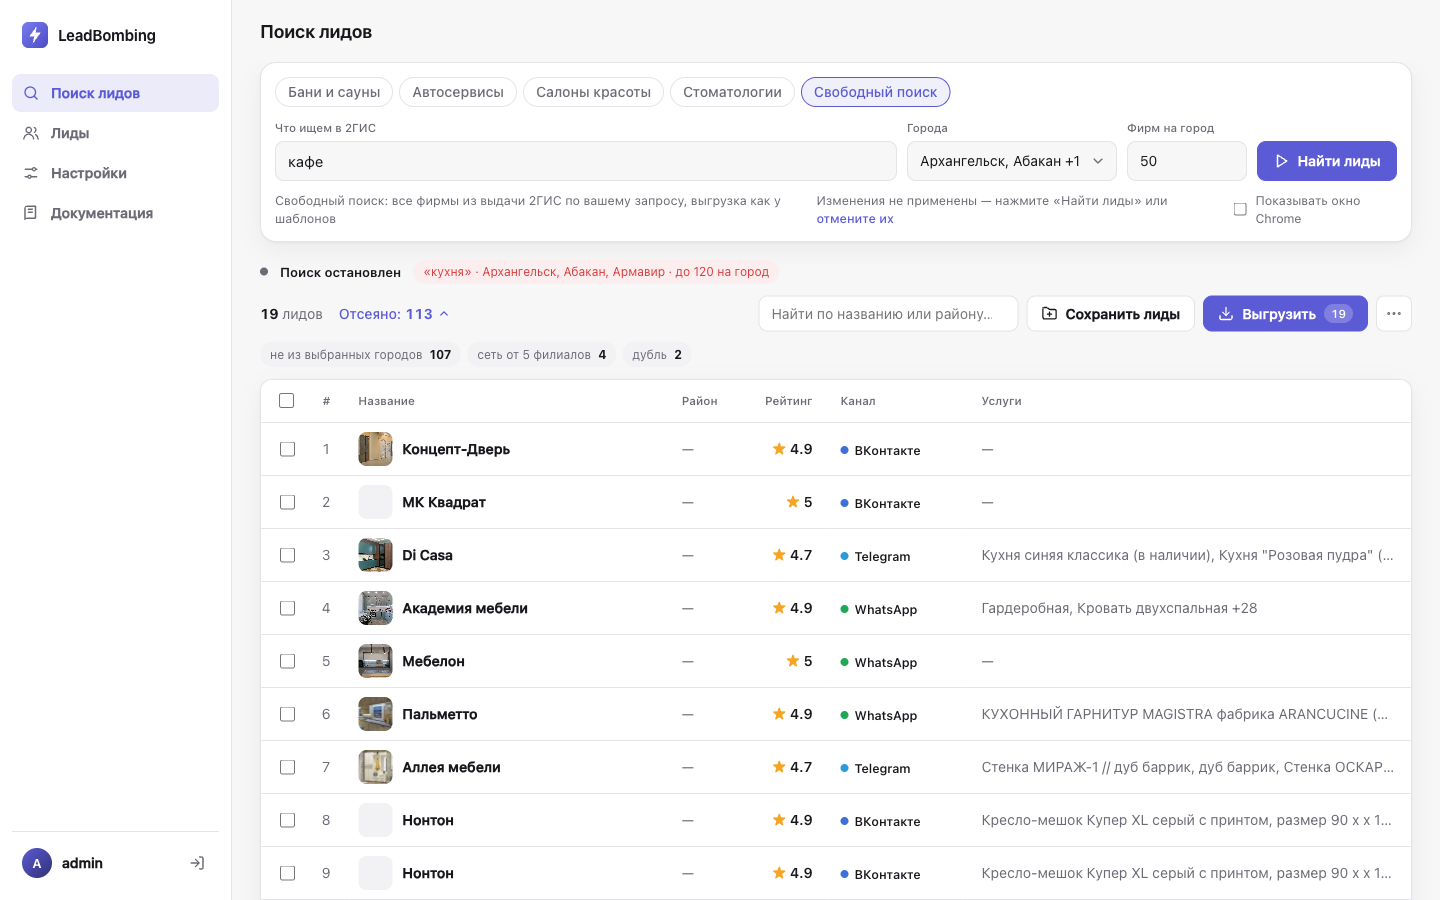
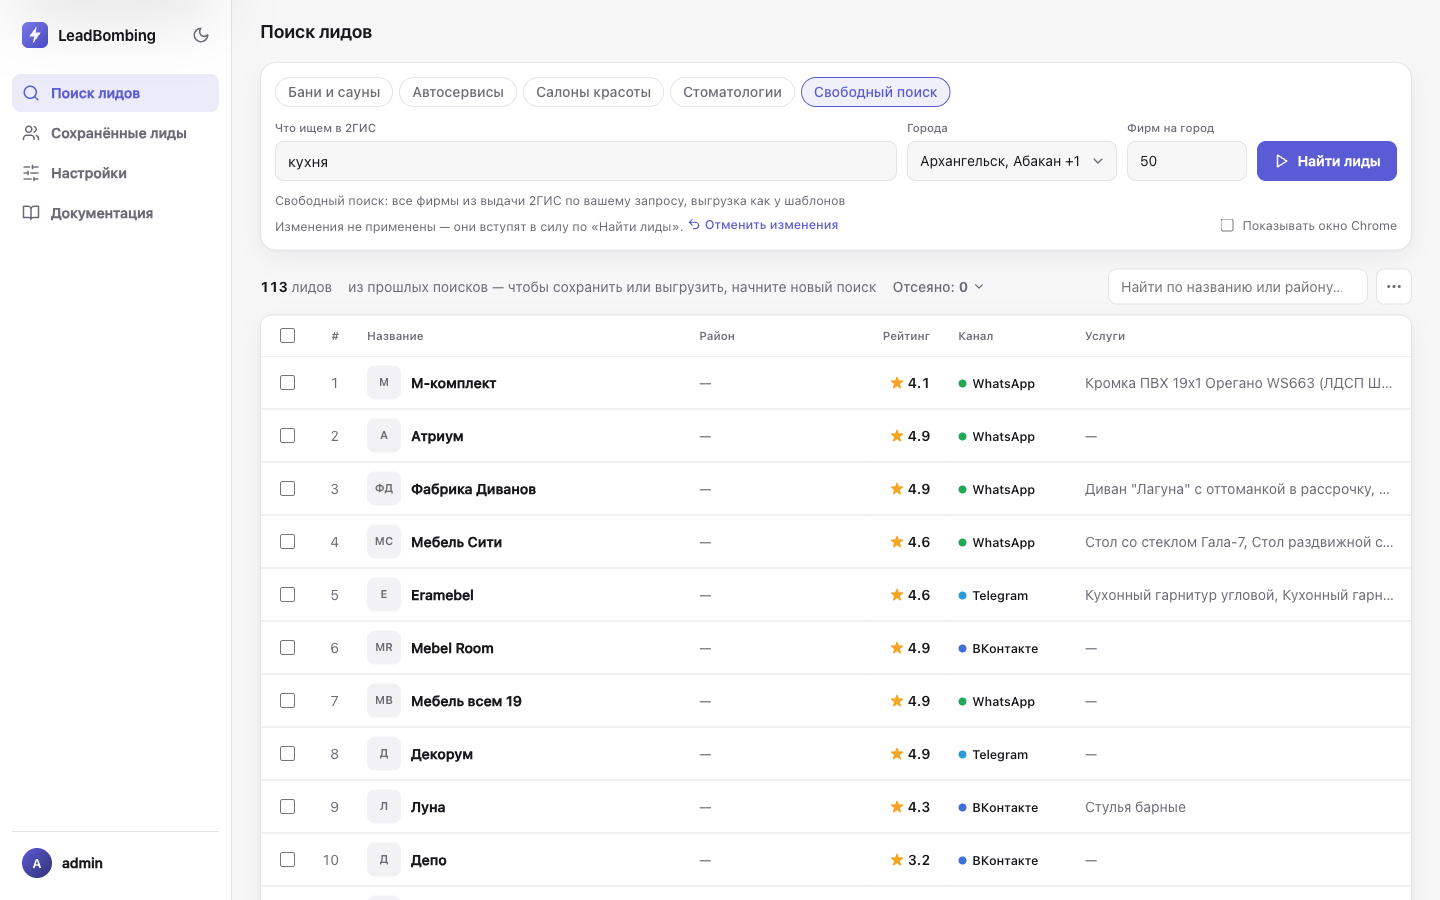
fix(ui): final polish after the guidelines and audit pass
- prefers-reduced-motion: no card slide, running pulse or row fade-in;
  state changes stay visible.
- Skip link to the content; arrow keys move through every radiogroup.
- Price dates in Russian (Intl), tel:/mailto: contacts no longer open a
  blank tab, row photos have a size, select-all and the priority sort get
  a bigger hit area, touch-action and tap highlight set.
- Phones: the lead count stays on one line, the past-searches hint below.
- Form hint button «Отменить изменения» with the undo icon.
- UX-AUDIT.md: what was done and what is left.

diff --git a/leadbombing/web/static/app/index.html b/leadbombing/web/static/app/index.html
@@ -15,6 +15,7 @@
 <script defer src="/static/app/vendor/alpine-3.14.1.min.js"></script>
 </head>
 <body>
+<a class="skip-link" href="#main">Перейти к содержимому</a>
 <div class="app" x-data="leadsApp" x-cloak @keydown.escape.window="deleteOpen ? (deleteOpen = false) : closeCard(); exportOpen = false; saveOpen = false; clearOpen = false; citiesOpen = false; moreOpen = false"
      @lb-logout.window="onLoggedOut()">
 
@@ -83,14 +84,14 @@
     </div>
   </nav>
 
-  <main class="main">
+  <main class="main" id="main" tabindex="-1">
   <div x-show="page === 'search'">
   <header class="top">
     <h1 class="top-title">Поиск лидов</h1>
   </header>
 
   <section class="search" aria-label="Параметры поиска">
-    <div class="spheres" role="radiogroup" aria-label="Сфера">
+    <div class="spheres" role="radiogroup" aria-label="Сфера" @keydown="radioKeys($event)">
       <template x-for="s in sphereChoices" :key="s.id">
         <button type="button" role="radio" class="chip" :class="{ on: form.sphere === s.id }" :aria-checked="form.sphere === s.id"
                 :disabled="running" @click="pickSphere(s)" x-text="s.title"></button>
@@ -138,8 +139,10 @@
     <div class="subbar">
       <span class="note" x-text="sphere?.note"></span>
       <span class="note" x-show="formChanged && !running" aria-live="polite">
-        Изменения не применены — нажмите «<span x-text="searchLabel"></span>» или
-        <button type="button" class="link" @click="restoreForm()">отмените их</button>
+        Изменения не применены — они вступят в силу по «<span x-text="searchLabel"></span>».
+        <button type="button" class="link undo-link" @click="restoreForm()">
+          <svg class="icon" aria-hidden="true"><use href="/static/app/vendor/icons.svg#undo-2"/></svg>Отменить изменения
+        </button>
       </span>
       <label class="toggle"><input type="checkbox" x-model="form.showChrome" :disabled="running"> Показывать окно Chrome</label>
     </div>
@@ -150,7 +153,7 @@
   <header class="top">
     <h1 class="top-title">Сохранённые лиды</h1>
   </header>
-  <div class="spheres" role="radiogroup" aria-label="Папки" x-show="folders.length">
+  <div class="spheres" role="radiogroup" aria-label="Папки" x-show="folders.length" @keydown="radioKeys($event)">
     <template x-for="f in folders" :key="f.id">
       <button type="button" role="radio" class="chip" :class="{ on: folderId === f.id }" :aria-checked="folderId === f.id"
               @click="showFolder(f.id)"><span x-text="f.name"></span> <span class="muted" x-text="f.count"></span></button>
@@ -223,9 +226,9 @@
     <div class="table-wrap" x-show="list.length">
       <table>
         <thead>
-          <tr><th class="pick"><input type="checkbox" aria-label="Выбрать все" :checked="allVisiblePicked"
+          <tr><th class="pick"><label class="pick-hit"><input type="checkbox" aria-label="Выбрать все" :checked="allVisiblePicked"
                                     :indeterminate="picked.length > 0 && !allVisiblePicked"
-                                    @change="toggleAll($event.target.checked)"></th>
+                                    @change="toggleAll($event.target.checked)"></label></th>
               <th class="num col-extra">#</th><th>Название</th>
               <th x-show="onLeads">Статус</th>
               <th x-show="onLeads" :aria-sort="{ desc: 'descending', asc: 'ascending' }[prioritySort] || 'none'">
@@ -244,7 +247,7 @@
               <td>
                 <div class="name">
                   <span class="thumb" :class="{ empty: !l.has_photo }">
-                    <img x-show="l.has_photo" :src="`${itemUrl(l.slug)}/hero`" loading="lazy" alt=""
+                    <img x-show="l.has_photo" :src="`${itemUrl(l.slug)}/hero`" loading="lazy" alt="" width="34" height="34"
                          @error="$el.remove()">
                     <span x-show="!l.has_photo" x-text="initials(l.name)"></span>
                   </span>
@@ -304,7 +307,7 @@
       <h2>Оформление</h2>
       <div class="row">
         <span>Тема</span>
-        <div class="segmented" role="radiogroup" aria-label="Тема">
+        <div class="segmented" role="radiogroup" aria-label="Тема" @keydown="radioKeys($event)">
           <template x-for="t in themeChoices" :key="t.id">
             <button type="button" role="radio" :aria-checked="theme === t.id" :class="{ on: theme === t.id }"
                     @click="setTheme(t.id)" x-text="t.title"></button>
@@ -367,7 +370,7 @@
       <p>Форма поиска (сфера, запрос, города, лимит, окно Chrome) всегда показывает последний запущенный поиск — тот,
         к которому относится таблица. Если поменять форму и не нажать «Найти лиды», под формой появится подсказка, а
         после перехода на другую страницу, перезагрузки или перезапуска приложения форма вернётся к последнему поиску.
-        Ссылка «отмените их» в подсказке откатывает изменения сразу.</p>
+        Кнопка «Отменить изменения» в подсказке откатывает их сразу.</p>
     </article>
 
     <article class="panel" id="docs-filter">
@@ -551,7 +554,7 @@
             <template x-if="onLeads && crm">
               <div class="work-head">
                 <div class="sub-label">Статус</div>
-                <div class="status-pick" role="radiogroup" aria-label="Статус лида">
+                <div class="status-pick" role="radiogroup" aria-label="Статус лида" @keydown="radioKeys($event)">
                   <template x-for="s in statuses" :key="s.id">
                     <button type="button" role="radio" class="st-btn" :class="s.id + (crm.status === s.id ? ' on' : '')"
                             :aria-checked="crm.status === s.id" :disabled="crmBusy" @click="setStatus(s.id)">
@@ -560,7 +563,7 @@
                 </div>
                 <p class="muted small" x-text="crm.status === 'new' ? 'Статус не выставлен — лид новый' : 'Повторный клик по статусу снимает его'"></p>
                 <div class="sub-label">Приоритет</div>
-                <div class="segmented" role="radiogroup" aria-label="Приоритет лида">
+                <div class="segmented" role="radiogroup" aria-label="Приоритет лида" @keydown="radioKeys($event)">
                   <template x-for="pr in priorities" :key="pr.id">
                     <button type="button" role="radio" :class="{ on: crm.priority === pr.id }" :aria-checked="crm.priority === pr.id"
                             :disabled="crmBusy" @click="setPriority(pr.id)" x-text="pr.title"></button>
@@ -648,7 +651,7 @@
                 <li class="contact" :class="{ owner: c.role === 'owner' }">
                   <span class="contact-type" x-text="c.title"></span>
                   <div class="contact-main">
-                    <a x-show="c.href" :href="c.href" target="_blank" rel="noopener" x-text="c.value"></a>
+                    <a x-show="c.href" :href="c.href" :target="/^https?:/.test(c.href || '') ? '_blank' : null" rel="noopener" x-text="c.value"></a>
                     <span x-show="!c.href" x-text="c.value"></span>
                     <div class="contact-label" x-show="c.label || c.role === 'owner'" :title="labelHint(c)">
                       <span class="owner-badge" x-show="c.role === 'owner'"><svg class="crown" viewBox="0 0 24 24" aria-hidden="true"><path d="M3 8l4.5 4L12 5l4.5 7L21 8l-2 11H5z"/></svg>Руководитель</span>
@@ -675,7 +678,7 @@
               </template>
             </ul>
             <p class="muted" x-show="!cardPrices.length">Во вкладке цен 2ГИС пусто — в выгрузке будет заглушка.</p>
-            <p class="muted small" x-show="card.lead.prices_updated" x-text="'Цены обновлены в 2ГИС: ' + card.lead.prices_updated"></p>
+            <p class="muted small" x-show="card.lead.prices_updated" x-text="'Цены обновлены в 2ГИС: ' + formatDate(card.lead.prices_updated)"></p>
           </div>
         </div>
 
@@ -774,7 +777,7 @@
     <p class="muted"><span x-text="picked.length ? 'Выбранные лиды' : 'Все найденные лиды'"></span>:
       <b x-text="exportCount + ' ' + leadsWord(exportCount)"></b>. Карточки и фото останутся в разделе «Лиды» — там с ними
       можно работать и выгрузить их позже.</p>
-    <div class="segmented" role="radiogroup" aria-label="Куда сохранить">
+    <div class="segmented" role="radiogroup" aria-label="Куда сохранить" @keydown="radioKeys($event)">
       <button type="button" role="radio" :aria-checked="saveForm.mode === 'new'" :class="{ on: saveForm.mode === 'new' }"
               @click="saveForm.mode = 'new'">Новая папка</button>
       <button type="button" role="radio" :aria-checked="saveForm.mode === 'add'" :class="{ on: saveForm.mode === 'add' }"

diff --git a/leadbombing/web/static/app/app.css b/leadbombing/web/static/app/app.css
@@ -68,7 +68,12 @@
 [x-cloak] { display: none !important; }
 html, body { margin: 0; background: var(--bg); color: var(--text); }
 /* Focus scrolled into view stays clear of the sticky page header (and of the bottom menu on phones) */
-html { scroll-padding-top: 80px; }
+html { scroll-padding-top: 80px; -webkit-tap-highlight-color: color-mix(in srgb, var(--accent) 14%, transparent); }
+button, a, label, input, select, summary { touch-action: manipulation; }
+.skip-link { position: fixed; left: 12px; top: -48px; z-index: 40; padding: 8px 14px; border-radius: 9px;
+  background: var(--surface); color: var(--text); box-shadow: var(--shadow-lg); text-decoration: none; font-weight: 550; }
+.skip-link:focus { top: 12px; }
+.main:focus { outline: none; }
 body {
   font: 14px/1.45 Inter, -apple-system, BlinkMacSystemFont, "Segoe UI", Roboto, sans-serif;
   -webkit-font-smoothing: antialiased;
@@ -213,7 +218,9 @@ th.pick, td.pick { width: 1%; padding-right: 0; }
   margin-bottom: 10px; min-height: 36px; }
 .counters { display: flex; align-items: center; gap: 16px; color: var(--muted); min-width: 0; }
 .counters b { color: var(--text); font-variant-numeric: tabular-nums; }
-.toggle-skipped { display: inline-flex; align-items: center; gap: 4px; }
+.counters > span:first-child { white-space: nowrap; }
+.toggle-skipped, .undo-link { display: inline-flex; align-items: center; gap: 4px; }
+.undo-link .icon { width: 14px; height: 14px; }
 .toggle-skipped b { color: inherit; }
 .toggle-skipped .icon { width: 14px; height: 14px; transition: transform .15s; }
 .toggle-skipped[aria-expanded="true"] .icon { transform: rotate(180deg); }
@@ -375,7 +382,7 @@ details.block summary { cursor: pointer; color: var(--muted); }
 .prio.p0 { opacity: .6; }
 .sort-btn { border: 0; background: none; padding: 0; font: inherit; color: inherit; cursor: pointer; white-space: nowrap; }
 .sort-btn:hover { color: var(--text); }
-.sort-btn { display: inline-flex; align-items: center; gap: 4px; }
+.sort-btn { display: inline-flex; align-items: center; gap: 4px; min-height: 28px; }
 .sort-mark { width: 13px; height: 13px; color: var(--accent); }
 
 .sub-label { font-size: 11.5px; color: var(--muted); font-weight: 500; margin: 2px 0 6px; }
@@ -451,6 +458,8 @@ details.block summary { cursor: pointer; color: var(--muted); }
   .subbar { flex-direction: column; }
   .col-extra { display: none; }
   /* Phone: filter and «Ещё» on the first row, the two actions share the second */
+  .counters { flex-wrap: wrap; gap: 4px 16px; }
+  .counters > .muted { flex-basis: 100%; order: 3; font-size: 12.5px; }
   .results-actions { width: 100%; margin-left: 0; display: grid; gap: 8px;
     grid-template-columns: minmax(0, 1fr) minmax(0, 1fr) 36px; grid-template-areas: "filter filter more" "save export export"; }
   .results-actions .filter { grid-area: filter; width: 100%; }
@@ -462,4 +471,12 @@ details.block summary { cursor: pointer; color: var(--muted); }
   .name { min-width: 150px; }
   .subbar .toggle { margin-left: 0; }
   .log { white-space: normal; }
+}
+
+/* Reduced motion: state still changes, only the movement goes (the running dot stays lit, the card just appears) */
+@media (prefers-reduced-motion: reduce) {
+  .run-bar.running .dot { animation: none; }
+  .slide-in, .slide-out { animation: none; }
+  .btn:active:not(:disabled) { transform: none; }
+  .toggle-skipped .icon, .chev { transition: none; }
 }

diff --git a/leadbombing/web/static/app/app.js b/leadbombing/web/static/app/app.js
@@ -33,6 +33,8 @@ function plural(n, [one, few, many]) {
   return many;
 }
 const LEAD_WORDS = ['лид', 'лида', 'лидов'];
+const DATE_FORMAT = new Intl.DateTimeFormat('ru-RU', { day: 'numeric', month: 'long', year: 'numeric' });
+const REDUCED_MOTION = matchMedia('(prefers-reduced-motion: reduce)');
 
 /* Windows (lead card, dialogs): focus moves in on open, Tab stays inside, focus goes back on close. */
 const FOCUSABLE = 'a[href], button:not([disabled]), input:not([disabled]), select:not([disabled]), textarea:not([disabled]), '
@@ -574,7 +576,26 @@ document.addEventListener('alpine:init', () => {
     },
 
     appear(el) {
-      if (window.Motion) Motion.animate(el, { opacity: [0, 1], transform: ['translateY(6px)', 'none'] }, { duration: 0.35 });
+      if (window.Motion && !REDUCED_MOTION.matches) {
+        Motion.animate(el, { opacity: [0, 1], transform: ['translateY(6px)', 'none'] }, { duration: 0.35 });
+      }
+    },
+    /* 2GIS gives ISO dates (2025-01-21): show them the Russian way; anything else stays as it came. */
+    formatDate(value) {
+      const date = /^\d{4}-\d{2}-\d{2}/.test(value || '') ? new Date(value) : null;
+      return date && !Number.isNaN(date.getTime()) ? DATE_FORMAT.format(date) : value;
+    },
+    /* Radiogroups (spheres, folders, theme, status, priority): arrow keys pick the next or previous choice. */
+    radioKeys(e) {
+      const step = { ArrowRight: 1, ArrowDown: 1, ArrowLeft: -1, ArrowUp: -1 }[e.key];
+      if (!step) return;
+      const radios = [...e.currentTarget.querySelectorAll('[role=radio]:not([disabled])')];
+      const at = radios.indexOf(document.activeElement);
+      if (at < 0) return;
+      e.preventDefault();
+      const next = radios[(at + step + radios.length) % radios.length];
+      next.focus();
+      next.click();
     },
 
     async openCard(slug) {

diff --git a/docs/UX-AUDIT.md b/docs/UX-AUDIT.md
@@ -161,3 +161,17 @@
 
 Не входит без отдельного согласия: контраст при замороженных цветах, изменения логики (предупреждение о
 несохранённом комментарии, «Написать» с копированием, следующий лид, фильтр по статусу), 404 фото, шрифт Inter.
+
+## г) Итог шага 5–6 (2026-11-17)
+
+Сделаны все пункты 1–32. Отличия от плана:
+- чип свободного поиска назван «Свободный поиск» (как в документации), а не «Свой запрос»;
+- подсказка изменённой формы: «Изменения не применены…» + кнопка «Отменить изменения».
+
+Финальные проверки: Vercel Web Interface Guidelines — P0–P1 нет; Impeccable audit — 15/20 (Good), P0 нет, P1 только
+контраст при неизменных цветах. После polish: `prefers-reduced-motion`, skip link, стрелки в radiogroup, даты через
+`Intl`, `tel:`/`mailto:` без новой вкладки, зоны нажатия чекбоксов ≥ 32 px.
+
+Не сделано (вне рамок, нужно согласие): контраст `--danger` в тёмной теме (4,0:1), белый на `--danger` (4,4:1), белый
+на тёмном `--accent` (3,5:1), текст бейджей статуса (3,4–3,6:1); предупреждение о несохранённом комментарии; 404 на фото
+героя (бэкенд); шрифт Inter не подключён.

diff --git a/docs/LOGIC.md b/docs/LOGIC.md
@@ -34,7 +34,7 @@
 - Форма поиска показывает последний запущенный поиск (`searchForm` в `app.js`): в localStorage и в настройки
   кабинета (`form`) она пишется только при «Найти лиды» и «Продолжить поиск». Изменения без запуска живут в памяти:
   при переходе на другую страницу (`showPage` → `restoreForm`), перезагрузке и перезапуске форма возвращается к
-  последнему поиску; пока она изменена, под ней видна подсказка с кнопкой «Вернуть».
+  последнему поиску; пока она изменена, под ней видна подсказка с кнопкой «Отменить изменения».
 
 ## 2. Какие фирмы отсеиваются
 
